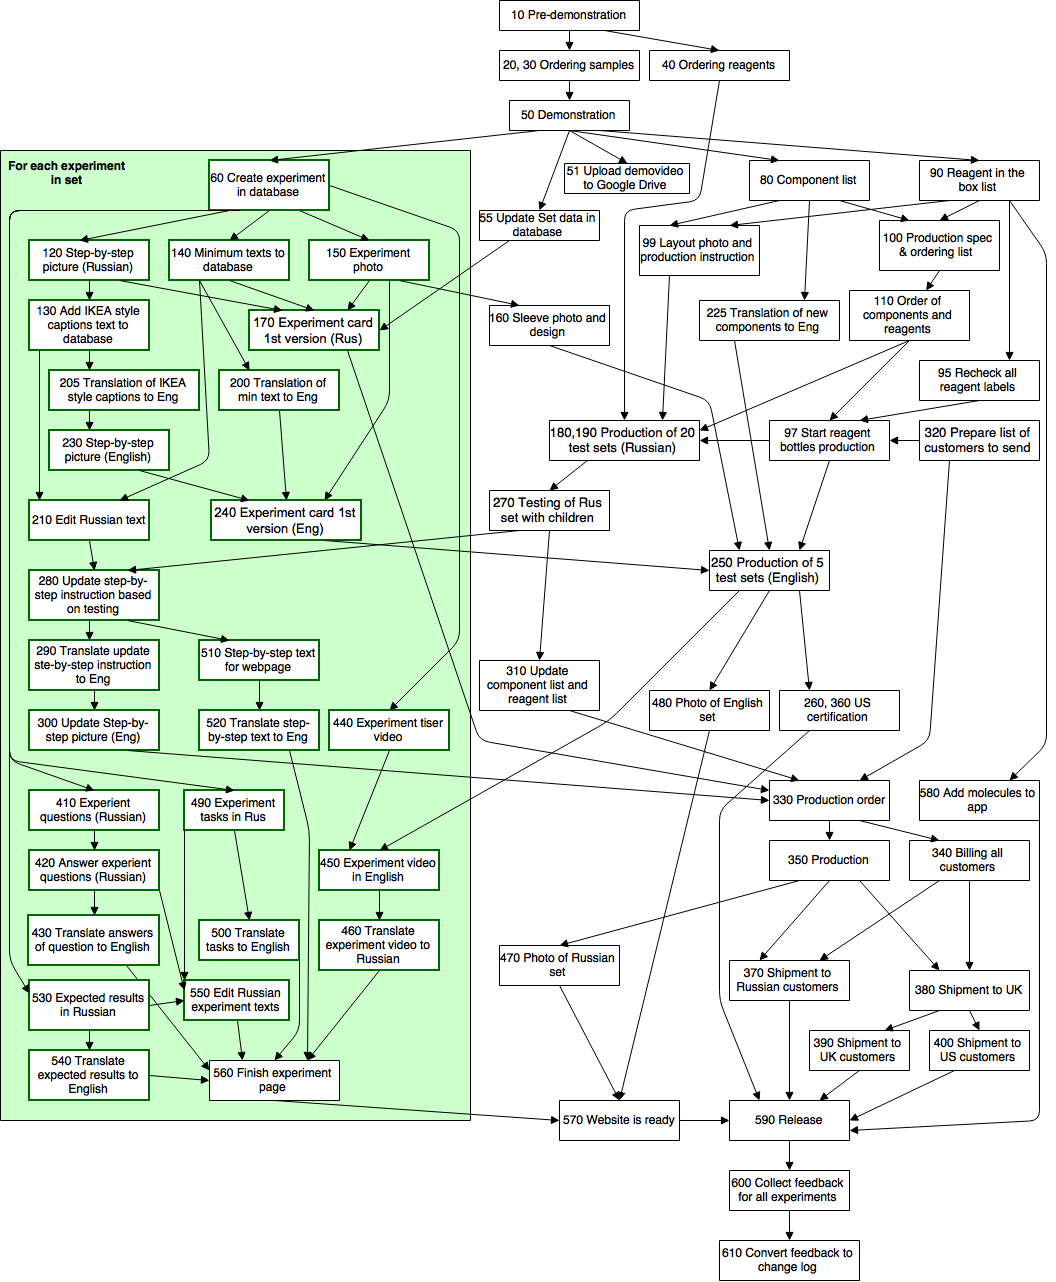
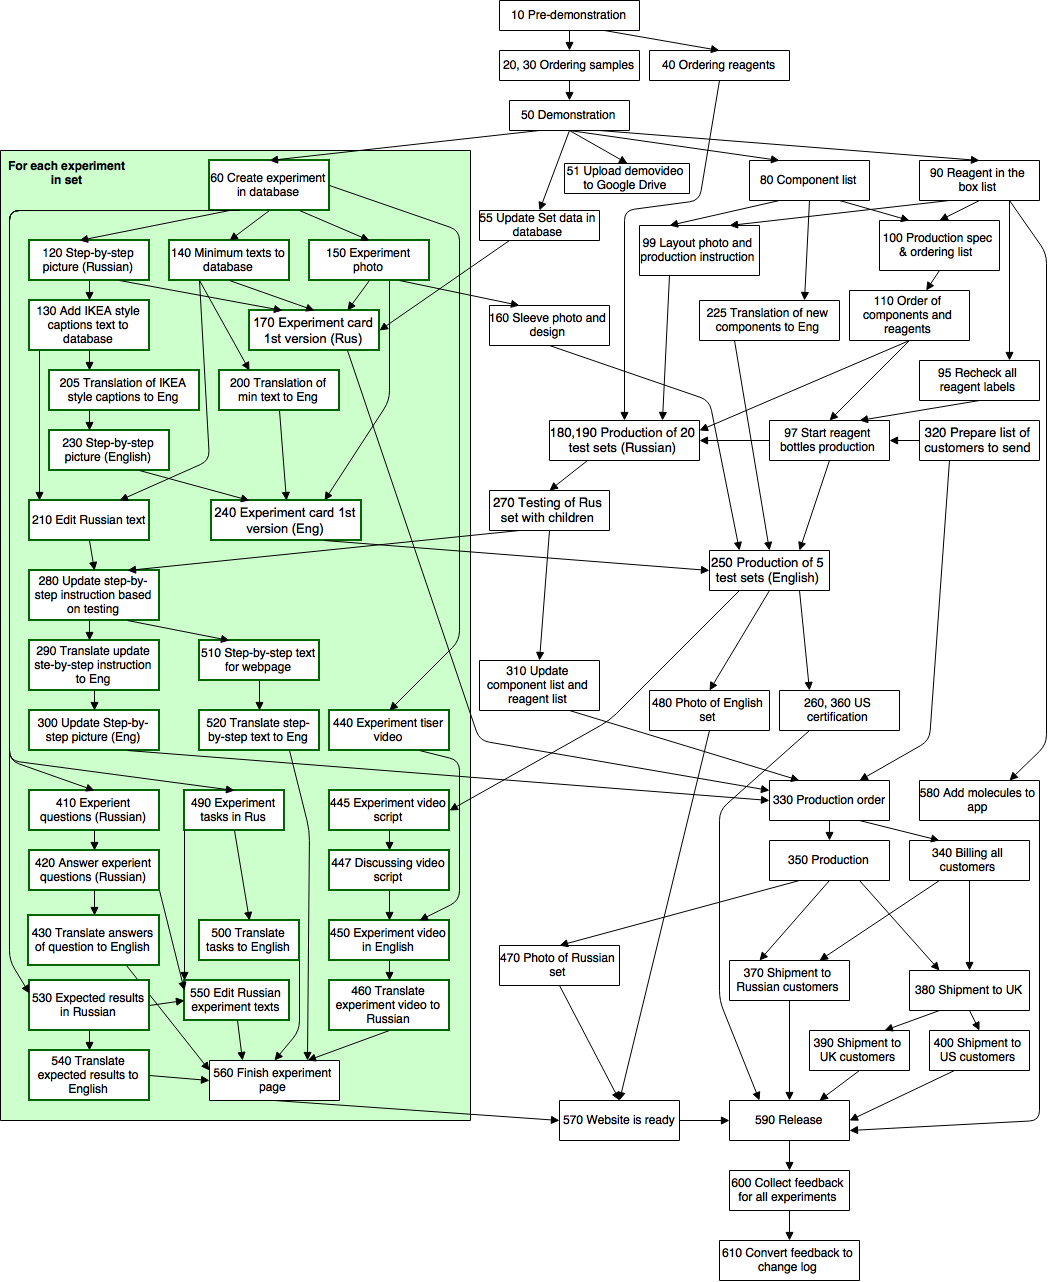
Two more steps to video production are added (script+script discusstion)

Changed region(s): [[0.2812, 0.5928, 0.4375, 0.8112]]

diff --git a/melchemistryprocess/diagram.html b/melchemistryprocess/diagram.html
@@ -229,8 +229,10 @@ var taskCoordinates = {
  420: [ 30, 850, 160, 890],
  430: [ 30, 915, 160, 965],
  440: [330, 710, 450, 750],
- 450: [320, 850, 440, 890],
- 460: [320, 920, 440, 970],
+ 445: [330, 790, 450, 830],
+ 447: [330, 850, 450, 890],
+ 450: [330, 920, 450, 960],
+ 460: [330, 980, 450, 1030],
  470: [500, 945, 620, 985],
  480: [650, 690, 770, 730],
  490: [185, 790, 285, 830],
